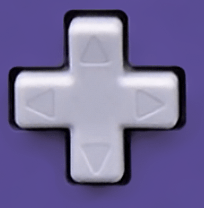
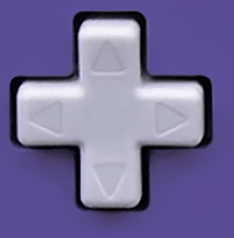
update

diff --git a/nano-ide.js b/nano-ide.js
@@ -76,14 +76,14 @@ var initialSource =
     //tests.variables;
     //tests.runner;
     //tests.hash;
-    //tests.plasma;
+    tests.plasma;
     //tests.plasma2;
     //tests.manySprites;
     //tests.FCN;
     //tests.sort;
     //tests.ping;
     //tests.IF;
-    tests.keyrepeat;
+    //tests.keyrepeat;
     //tests.FOR;
     //tests.input;
     //tests.agent;
@@ -127,6 +127,7 @@ function setUIMode(d) {
     } else {
         // Minimal and Emulator
         body.classList.add('noIDE');
+        
         // Nothing to do except play in this mode, so hit play automatically
         onPlayButton();
     }
@@ -137,16 +138,22 @@ function setUIMode(d) {
 
 function onResize() {
     let body = document.getElementsByTagName("body")[0];
-    
+    let emulator = document.getElementById('emulator');
+
     switch (displayMode) {
     case 'IDE':
-        // Nothing to do
+        // Remove explicit styles set by Javascript
+        // for the minimal UI.
+        emulator.removeAttribute('style');
         break;
         
     case 'Emulator':
         // If not too small, remove minimalUI from body
         // TODO
         body.classList.remove('minimalUI');
+        // Remove explicit styles set by Javascript
+        // for the minimal UI.
+        emulator.removeAttribute('style');
         
         // If too small, fall through to minimal
         // TODO
@@ -154,24 +161,21 @@ function onResize() {
         break;
         
     case 'Minimal':
-        // TODO: figure out FRAMEBUFFER_HEIGHT from the code before
-        // entering this mode.
-
-        // TODO: Choose horizontal or vertical layout based on screen size
-        
-        let windowHeightDevicePixels = window.innerHeight * devicePixelRatio;
 
         // What is the largest multiple FRAMEBUFFER_HEIGHT that is less than windowHeightDevicePixels?
-        let scale = Math.floor(windowHeightDevicePixels / FRAMEBUFFER_HEIGHT) * FRAMEBUFFER_HEIGHT;
+        let scale = Math.max(0, Math.min((window.innerHeight - 40) / 300, (window.innerWidth - 270) / 280));
 
-        // TODO: reserve space for the controls
-
-        // TODO: set a scale transformation to move the screen + bar size and position
-        // appropriately
+        if (scale * window.devicePixelRatio < 2) {
+            // Round to nearest even multiple of the actual pixel size
+            // let windowHeightDevicePixels = window.innerHeight * devicePixelRatio;
+            // Math.floor(windowHeightDevicePixels / FRAMEBUFFER_HEIGHT) * FRAMEBUFFER_HEIGHT
+        }
         
-        console.log(scale);
-
-        // TODO: Make emulator elements hidden when this is set
+        emulator.style.transform = 'scale(' + scale + ')';
+        emulator.style.left = Math.round((window.innerWidth - emulator.offsetWidth) / 2) + 'px';
+        emulator.style.top = '8px';
+        
+        // Hide emulator elements
         body.classList.add('minimalUI');
         break;
     }
@@ -1801,6 +1805,9 @@ function setFramebufferSize(w) {
         Runtime._screen = new Uint8Array(SCREEN_WIDTH * FRAMEBUFFER_HEIGHT)
         Runtime._updateImageDataUint32 = new Uint32Array(updateImageData.data.buffer);
     }
+
+    // The layout may need updating as well
+    onResize();
 }
 
 /** Returns javascript source or throws an exception */
@@ -2033,8 +2040,8 @@ function getIdealGamepads() {
             gamepadArray.push(mypad);
             
             if (gamepadArray.length > prevRealGamepadState.length) {
-                prevRealGamepadState.push({axes:[0, 0], buttons:[false, false, //0-2
-                                                                 undefined, undefined, undefined, undefined, undefined, undefined, // 3-8
+                prevRealGamepadState.push({axes:[0, 0], buttons:[false, false, false, false,//0-3
+                                                                 undefined, undefined, undefined, undefined, // 5-8
                                                                  false // 9
                                                                 ]});
             }
@@ -2071,19 +2078,19 @@ function submitFrame() {
     
     refreshPending = true;
 
-    var axes = 'xy', buttons = 'abcds';
+    let axes = 'xy', buttons = 'abcds';
 
     // HTML gamepad indices of corresponding elements of the buttons array
-    var buttonIndex = [0, 1, 9];
+    let buttonIndex = [0, 1, 9];
     
-    var gamepadArray = getIdealGamepads();
+    let gamepadArray = getIdealGamepads();
     
     // Sample the keys
-    for (var player = 0; player < 2; ++player) {
+    for (let player = 0; player < 2; ++player) {
         var map = keyMap[player], pad = Runtime.pad[player],
             realGamepad = gamepadArray[player], prevRealGamepad = prevRealGamepadState[player];
 
-        for (var a = 0; a < axes.length; ++a) {
+        for (let a = 0; a < axes.length; ++a) {
             var axis = axes[a];
             var pos = '+' + axis, neg = '-' + axis;
             var n0 = map[neg][0], n1 = map[neg][1], p0 = map[pos][0], p1 = map[pos][1];
@@ -2170,46 +2177,51 @@ let justLoggedIn = true;
 
     setActiveCartridge(activeCartridge, true);
 
-    var buttons = 'WASD1ZXER';
-    for (var i = 0; i < buttons.length; ++i) {
-        var b = buttons[i];
-        var buttonElement = document.getElementById(b + 'button');
-        buttonElement.onmousedown = buttonElement.ontouchstart = (function(b) {
-            return function (event) {
-                if (! emulatorButtonState[b]) {
-                    // fake an event
-                    onEmulatorKeyDown({keyCode:ascii(b), stopPropagation:Math.abs, preventDefault:Math.abs});
-                }
-                emulatorButtonState[b] = 1;
-                event.preventDefault();
-                event.stopPropagation();
-            };
-        })(b);
-
-        buttonElement.onmouseenter = buttonElement.onmousemove = (function(b) {
-            return function (event) {
-                if (event.buttons !== 0) {
+    // Set button callbacks
+    let buttons = 'WASD1ZXER';
+    for (let i = 0; i < buttons.length; ++i) {
+        let b = buttons[i];
+        let emulatorButtonArray = document.getElementsByClassName(b + 'button');
+        for (let j = 0; j < emulatorButtonArray.length; ++j) {
+            let buttonElement = emulatorButtonArray[j];
+            
+            buttonElement.onmousedown = buttonElement.ontouchstart = (function(b) {
+                return function (event) {
                     if (! emulatorButtonState[b]) {
                         // fake an event
                         onEmulatorKeyDown({keyCode:ascii(b), stopPropagation:Math.abs, preventDefault:Math.abs});
                     }
                     emulatorButtonState[b] = 1;
-                }
-            };
-        })(b);
-
-        buttonElement.onmouseup = buttonElement.onmouseleave = buttonElement.ontouchend = (function(b) {
-            return function (event) {
-                if (emulatorButtonState[b]) {
-                    // fake an event
-                    onEmulatorKeyUp({keyCode:ascii(b), stopPropagation:Math.abs, preventDefault:Math.abs});
-                }
-                emulatorButtonState[b] = 0;
-                event.preventDefault();
-                event.stopPropagation();
-            };
-        })(b);
-}
+                    event.preventDefault();
+                    event.stopPropagation();
+                };
+            })(b);
+            
+            buttonElement.onmouseenter = buttonElement.onmousemove = (function(b) {
+                return function (event) {
+                    if (event.buttons !== 0) {
+                        if (! emulatorButtonState[b]) {
+                            // fake an event
+                            onEmulatorKeyDown({keyCode:ascii(b), stopPropagation:Math.abs, preventDefault:Math.abs});
+                        }
+                        emulatorButtonState[b] = 1;
+                    }
+                };
+            })(b);
+            
+            buttonElement.onmouseup = buttonElement.onmouseleave = buttonElement.ontouchend = (function(b) {
+                return function (event) {
+                    if (emulatorButtonState[b]) {
+                        // fake an event
+                        onEmulatorKeyUp({keyCode:ascii(b), stopPropagation:Math.abs, preventDefault:Math.abs});
+                    }
+                    emulatorButtonState[b] = 0;
+                    event.preventDefault();
+                    event.stopPropagation();
+                };
+            })(b);
+        } // for each button
+    } // for each control
     
 })();
 

diff --git a/index.html b/index.html
@@ -30,17 +30,29 @@
   </script>
  
   <body>
+    <div id="background"> </div>
+    
     <div id="uiModeMenuButton" onclick="onUIModeMenuButton(event)"> </div>
     <div id="uiModeMenu" class="noselect">
       <div onclick="setUIMode('IDE')"><img src="ui-ide.png" width="64" height="32" style="padding: 1px 8px; border-bottom: 1px solid #000"></div>
       <div onclick="setUIMode('Emulator')"><img src="ui-emulator.png" width="64" height="32" style="padding: 1px 8px; border-bottom: 1px solid #000"></div>
-      <!-- <div onclick="setUIMode('Minimal')"><img src="ui-minimal.png" width="64" height="32" style="padding: 1px 8px"></div> -->
+      <div onclick="setUIMode('Minimal')"><img src="ui-minimal.png" width="64" height="32" style="padding: 1px 8px"></div>
     </div>
-
-    <img src="D-pad.png" style="position: absolute; left:15px; top:50px;" width="102px" id="minimalDPad" class="minimalControls">
-    <img src="buttons.png" style="position: absolute; right:0px; top:45px;" id="minimalButtons" width="130px" class="minimalControls">
-    <img src="start-button.png" style="position: absolute; right:43px; top:260px" width="41px" id="minimalStartButton" class="minimalControls">
-    <div style="background: #333; position: absolute; left:130px; right:130px; top: 0px; bottom: 0px" class="minimalControls"> </div>
+    
+    <div style="background-image: url('D-pad.png'); background-size: cover; position: absolute; left:12px; top:48px; width: 117px; height: 119px" id="minimalDPad" class="minimalControls">
+      <div class="Wbutton emulatorButton" style="left: 39px; top:0px; width:30px; height:40px"> </div>
+      <div class="Abutton emulatorButton" style="left: -1px; top:41px; width:39px; height:30px"> </div>
+      <div class="Sbutton emulatorButton" style="left: 39px; top:72px; width:30px; height:40px"> </div>
+      <div class="Dbutton emulatorButton" style="left: 70px; top:41px; width:40px; height:30px"> </div>
+    </div>
+    <div style="background-image: url('buttons.png'); background-size: cover; position: absolute; right:0px; top:45px; width: 130px; height: 124px" id="minimalButtons" class="minimalControls">
+      <div class="Rbutton emulatorButton" style="left: 41px; top:4px; width:38px; height:38px"> </div>
+      <div class="Ebutton emulatorButton" style="left: 5px; top:36px; width:38px; height:38px"> </div>
+      <div class="Zbutton emulatorButton" style="left: 78px; top:36px; width:38px; height:38px"> </div>
+      <div class="Xbutton emulatorButton" style="left: 41px; top:69px; width:38px; height:38px"> </div>
+    </div>
+    <img src="start-button.png" style="position: absolute; right:43px; bottom:60px" width="41px" id="minimalStartButton" class="1button minimalControls">
+    <div style="background: #333; border-radius: 15px 15px 0 0; position: absolute; left:134px; right:134px; top: 0px; bottom: 0px" class="minimalControls"> </div>
 
     <div id="header" class="idePart">
       <div style="position: absolute; top:-1px; left:4px">
@@ -163,16 +175,16 @@
       <input type="button" id="emulatorKeyboardInput" style="z-index:-1;position:absolute;width:10px;top:200px;left:200px">
         <canvas id="bar" width=256 height=32></canvas>
         <canvas id="screen" width=256 height=256></canvas>
-        <div id="Zbutton" class="emulatorButton" style="left: 301px; top:475px; width:38px; height:38px"> </div>
-        <div id="Xbutton" class="emulatorButton" style="left: 337px; top:444px; width:38px; height:38px"> </div>
-        <div id="Ebutton" class="emulatorButton" style="left: 266px; top:444px; width:38px; height:38px"> </div>
-        <div id="Rbutton" class="emulatorButton" style="left: 301px; top:412px; width:38px; height:38px"> </div>
-        <div id="1button" class="emulatorButton" style="left: 192px; top:417px; width:30px; height:30px"> </div>
+        <div class="Zbutton emulatorButton" style="left: 301px; top:475px; width:38px; height:38px"> </div>
+        <div class="Xbutton emulatorButton" style="left: 337px; top:444px; width:38px; height:38px"> </div>
+        <div class="Ebutton emulatorButton" style="left: 266px; top:444px; width:38px; height:38px"> </div>
+        <div class="Rbutton emulatorButton" style="left: 301px; top:412px; width:38px; height:38px"> </div>
+        <div class="1button emulatorButton" style="left: 192px; top:417px; width:30px; height:30px"> </div>
 
-        <div id="Wbutton" class="emulatorButton" style="left: 77px; top:410px; width:28px; height:40px"> </div>
-        <div id="Sbutton" class="emulatorButton" style="left: 77px; top:475px; width:28px; height:40px"> </div>
-        <div id="Abutton" class="emulatorButton" style="left: 40px; top:447px; width:40px; height:28px"> </div>
-        <div id="Dbutton" class="emulatorButton" style="left: 105px; top:447px; width:40px; height:28px"> </div>
+        <div class="Wbutton emulatorButton" style="left: 77px; top:410px; width:28px; height:40px"> </div>
+        <div class="Sbutton emulatorButton" style="left: 77px; top:475px; width:28px; height:40px"> </div>
+        <div class="Abutton emulatorButton" style="left: 40px; top:447px; width:40px; height:28px"> </div>
+        <div class="Dbutton emulatorButton" style="left: 105px; top:447px; width:40px; height:28px"> </div>
       </div>
     </div>
 

diff --git a/nano.css b/nano.css
@@ -14,7 +14,7 @@ body {
     font-family: Helvetica, Arial;
     font-size: 13px;
     margin: 0;
-    background: #383050;
+    background: #000;
     color: #ddd;
     height:100%;
     width: 100%;               
@@ -61,7 +61,7 @@ a {
     width: 1px !important; height: 1px !important; position: absolute !important; left: -10000px !important; top: -1000px !important;
 }
 
-.emulator .case, .emulator .case .emulatorButton {
+.emulator .case, .emulatorButton {
     touch-action: none;
     /* Disable text selection */
     -webkit-touch-callout: none;
@@ -81,7 +81,7 @@ a {
     cursor: pointer;
     position: absolute;
     /* show bounds for debugging */
-    /*  border: 1px solid #f00; */
+    /* border: 1px solid #f00;*/
 }
 
 
@@ -108,8 +108,8 @@ a {
 
 #uiModeMenuButton {
     position: absolute;
-    top: 0px;
-    right: 0px;
+    top: 9px;
+    right: -3px;
     z-index: 21;
     width: 60px;
     height: 30px;
@@ -124,7 +124,7 @@ a {
 #uiModeMenu {
     position: absolute;
     z-index: 21;
-    top: 30px;
+    top: 35px;
     right: 0px;
     background: #FFF;
     padding-top: 5px;
@@ -676,8 +676,17 @@ div.emulator div.case {
     background-size:  100% 100%;
 }
 
-body.minimalUI {
-    background: #594e92;
+
+div#background {
+    position: fixed;
+    top:0; left:0;
+    width:100%; height:100%;
+    background: #383050;
+}
+
+body.minimalUI div#background {
+    background: #594e92 !important;
+    border-radius: 20px;
 }
 
 body.minimalUI div.emulator div.case {
@@ -719,15 +728,13 @@ canvas#screen {
     width:256px;
     height:256px;
     background: #000;
-    /* Slightly soften and tilt to make the embedded image look more real*/
-    filter: blur(0.1px);
-    /* The negative z translation is needed to fix z-order conflicts on Safari */
-    /*transform: translateZ(-15px) perspective(1000px) rotateX(5deg); */
+    /* Slightly soften to make the embedded image look more real*/
+    /* filter: blur(0.1px); */
 }
 
 /* Inset the screens in minimal mode */
 .minimalUI canvas#bar, .minimalUI canvas#screen {
-    box-shadow: 1px 2px 1px 0px rgba(255,255,255,0.3), -1px -2px 1px 0px rgba(0,0,0,0.3);
+    box-shadow: 0.5px 2px 1px 0px rgba(255,255,255,0.3), -1px -2px 1px 0px rgba(0,0,0,0.3);
 }
 
 #saveButtonContainer:not(.disabled) span#saveButtonLabel {
